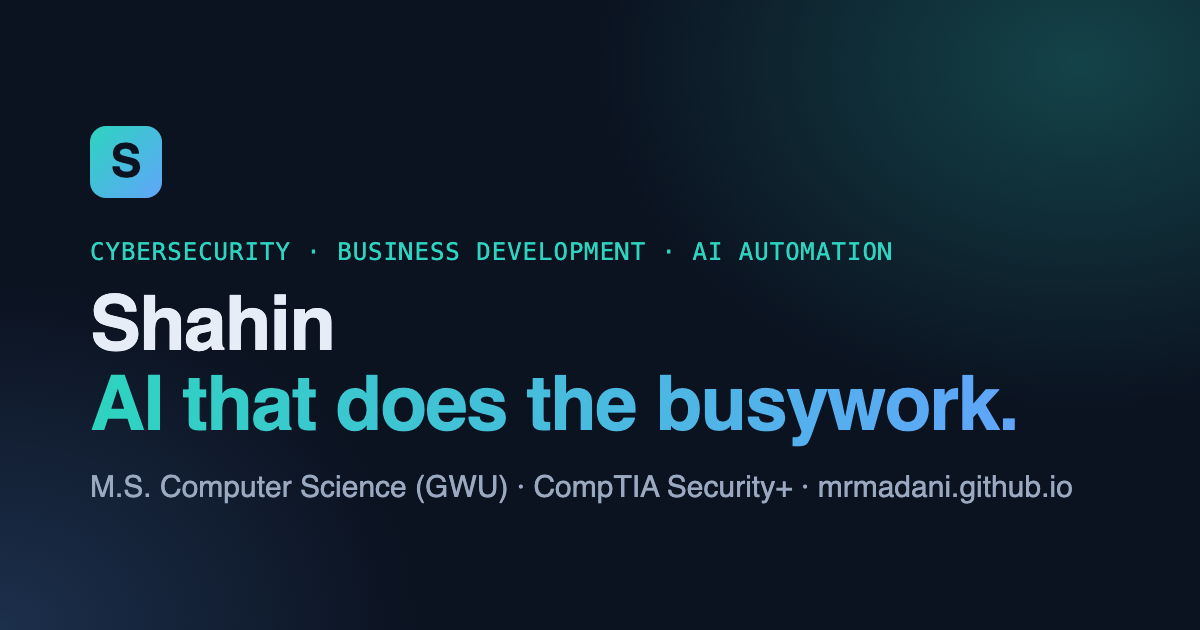
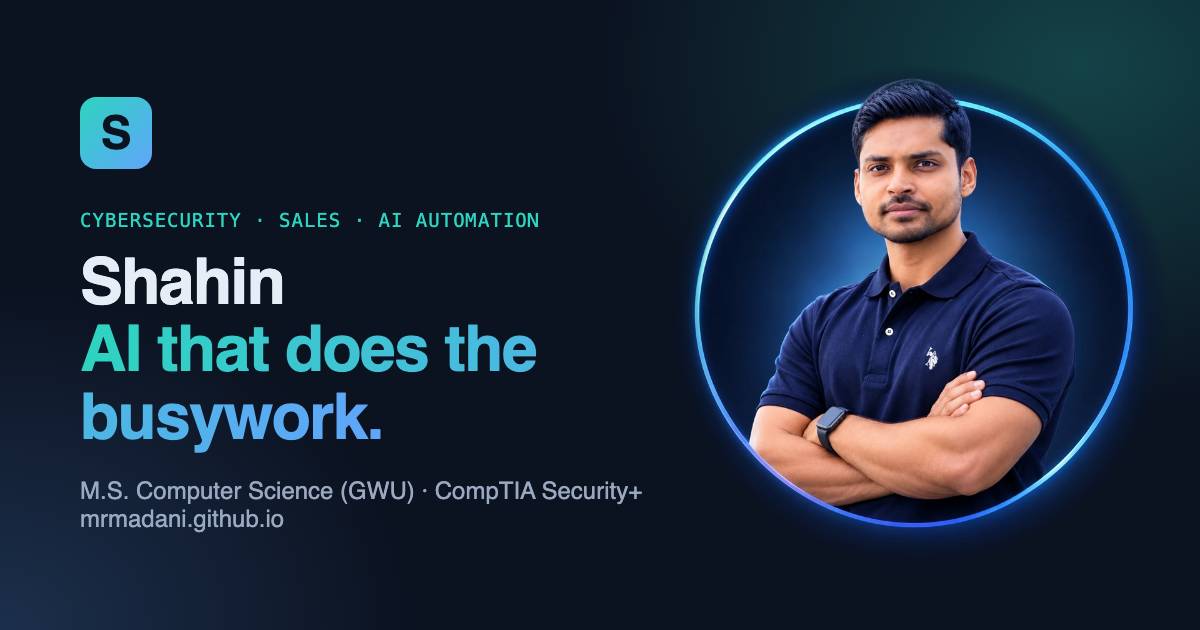
Add profile photo to hero and social preview

Changed region(s): [[0.0617, 0.1206, 0.9558, 0.8746], [0.2775, 0.3317, 0.5242, 0.4222]]

diff --git a/tools/og-card.html b/tools/og-card.html
@@ -6,17 +6,23 @@
   body{font-family:Inter,Helvetica,Arial,sans-serif;color:#e6edf7;
     background:radial-gradient(700px 500px at 90% 10%,rgba(45,212,191,.25),transparent 70%),
                radial-gradient(600px 500px at 0% 100%,rgba(96,165,250,.2),transparent 70%),#0b1220;
-    display:flex;flex-direction:column;justify-content:center;padding:0 90px;box-sizing:border-box}
+    display:flex;flex-direction:column;justify-content:center;padding:0 0 0 80px;box-sizing:border-box;position:relative}
+  .photo{position:absolute;right:30px;top:50%;transform:translateY(-50%);width:500px;height:500px;
+    -webkit-mask-image:radial-gradient(circle closest-side,#000 88%,transparent 100%)}
+  .txt{max-width:680px}
   .mark{width:72px;height:72px;border-radius:16px;background:linear-gradient(135deg,#2dd4bf,#60a5fa);
     color:#0b1220;font-weight:800;font-size:46px;display:flex;align-items:center;justify-content:center;margin-bottom:40px}
-  .eyebrow{font-family:Menlo,monospace;color:#2dd4bf;font-size:24px;letter-spacing:1px;text-transform:uppercase;margin-bottom:18px}
-  h1{font-size:76px;line-height:1.05;margin:0 0 26px;font-weight:800;letter-spacing:-1.5px}
+  .eyebrow{font-family:Menlo,monospace;color:#2dd4bf;font-size:19px;letter-spacing:1px;text-transform:uppercase;margin-bottom:18px}
+  h1{font-size:64px;line-height:1.05;margin:0 0 26px;font-weight:800;letter-spacing:-1.5px}
   .g{background:linear-gradient(90deg,#2dd4bf,#60a5fa);-webkit-background-clip:text;color:transparent}
-  p{font-size:30px;color:#9aa8c0;margin:0}
+  p{font-size:24px;color:#9aa8c0;margin:0}
 </style></head>
 <body>
+  <img class="photo" src="../assets/profile.jpg">
+  <div class="txt">
   <div class="mark">S</div>
-  <div class="eyebrow">Cybersecurity · Business Development · AI Automation</div>
+  <div class="eyebrow">Cybersecurity · Sales · AI Automation</div>
   <h1>Shahin<br><span class="g">AI that does the busywork.</span></h1>
-  <p>M.S. Computer Science (GWU) · CompTIA Security+ · mrmadani.github.io</p>
+  <p>M.S. Computer Science (GWU) · CompTIA Security+<br>mrmadani.github.io</p>
+  </div>
 </body></html>

diff --git a/styles.css b/styles.css
@@ -78,6 +78,14 @@ h1 { font-size: clamp(2.2rem, 5vw, 3.6rem); line-height: 1.1; font-weight: 800; 
   width: 100%; height: 100%; border-radius: 50%; object-fit: cover; background: var(--card);
 }
 .hero-photo img { position: relative; z-index: 1; }
+/* The photo has its own glowing ring, so drop the gradient frame and fade its edges into the page. */
+.hero-photo.has-photo { padding: 0; background: none; box-shadow: none; width: min(420px, 85vw); }
+.hero-photo.has-photo img {
+  border-radius: 0; background: none;
+  -webkit-mask-image: radial-gradient(circle closest-side, #000 88%, transparent 100%);
+  mask-image: radial-gradient(circle closest-side, #000 88%, transparent 100%);
+}
+.hero-photo.has-photo .photo-fallback { display: none; }
 .photo-fallback {
   position: absolute; inset: 6px; width: auto; height: auto;
   display: grid; place-items: center; font-size: 7rem; font-weight: 800; color: var(--accent);
@@ -180,7 +188,7 @@ h1 { font-size: clamp(2.2rem, 5vw, 3.6rem); line-height: 1.1; font-weight: 800; 
   .nav nav a:not(.nav-cta) { display: none; }
   .hero { padding: 56px 0 64px; }
   .hero-inner { grid-template-columns: 1fr; gap: 40px; text-align: left; }
-  .hero-photo { order: -1; width: 200px; justify-self: start; }
+  .hero-photo, .hero-photo.has-photo { order: -1; width: 240px; justify-self: start; }
   .photo-fallback { font-size: 4.5rem; }
   .section { padding: 64px 0; }
   .grid.four, .grid.two, .process { grid-template-columns: 1fr; }

diff --git a/index.html b/index.html
@@ -61,10 +61,9 @@
           </div>
         </div>
         <div class="hero-photo">
-          <!-- PHOTO: replace assets/profile.jpg with your headshot (square, at least 600x600).
-               If the file is missing, your initials show instead. -->
+          <!-- PHOTO: assets/profile.jpg (square, at least 600x600). If it's missing, your initials show instead. -->
           <img src="assets/profile.jpg" alt="Portrait of Shahin" width="360" height="360"
-               onerror="this.remove()">
+               onload="this.parentNode.classList.add('has-photo')" onerror="this.remove()">
           <span class="photo-fallback" aria-hidden="true">S</span>
         </div>
       </div>

diff --git a/README.md b/README.md
@@ -9,7 +9,7 @@ Live at **https://mrmadani.github.io/**. Static HTML/CSS, hosted free on GitHub 
 | `index.html` | All page content (hero, about, sections, contact) and SEO/Open Graph tags |
 | `styles.css` | Look and feel; colors are at the top under `:root` |
 | `favicon.svg` | Browser-tab icon |
-| `assets/profile.jpg` | Your headshot (add it; initials show until you do) |
+| `assets/profile.jpg` | Your headshot (to swap it, replace this file with a square image of the same name) |
 | `assets/og-image.png` | The preview image LinkedIn shows when you share the link |
 | `assets/apple-touch-icon.png` | iPhone home-screen icon |
 | `tools/` | Sources + script that regenerate the two PNGs above |
@@ -37,7 +37,6 @@ the live page are placeholders too.
 - `YOUR-LINKEDIN-HANDLE` (LinkedIn button)
 - Achievements in the Cybersecurity and Sales sections
 - Graduation year, Security+ year / verification link
-- `assets/profile.jpg` — your photo (square, ≥ 600×600)
 
 To remove a placeholder line you don't want, delete its whole `<li>...</li>` or `<p class="placeholder">` line.
 

diff --git a/AGENTS.md b/AGENTS.md
@@ -3,4 +3,4 @@
 - **Owner of all files:** Claude (built 2026-11-12). Other assistants: file suggestions, don't edit directly.
 - **What it is:** Shahin's personal portfolio, static HTML/CSS on GitHub Pages (repo MrMadani/MrMadani.github.io, branch `main`, root).
 - **Verified:** renders at desktop and 375px phone width with no horizontal scroll; OG image and touch icon generated with headless Chrome.
-- **Open items:** real photo (`assets/profile.jpg`), email, LinkedIn URL, achievements, grad/cert years. All marked `PLACEHOLDER` / `YOUR_` in `index.html`.
+- **Open items:** email, LinkedIn URL, achievements, grad/cert years. All marked `PLACEHOLDER` / `YOUR_` in `index.html`.
